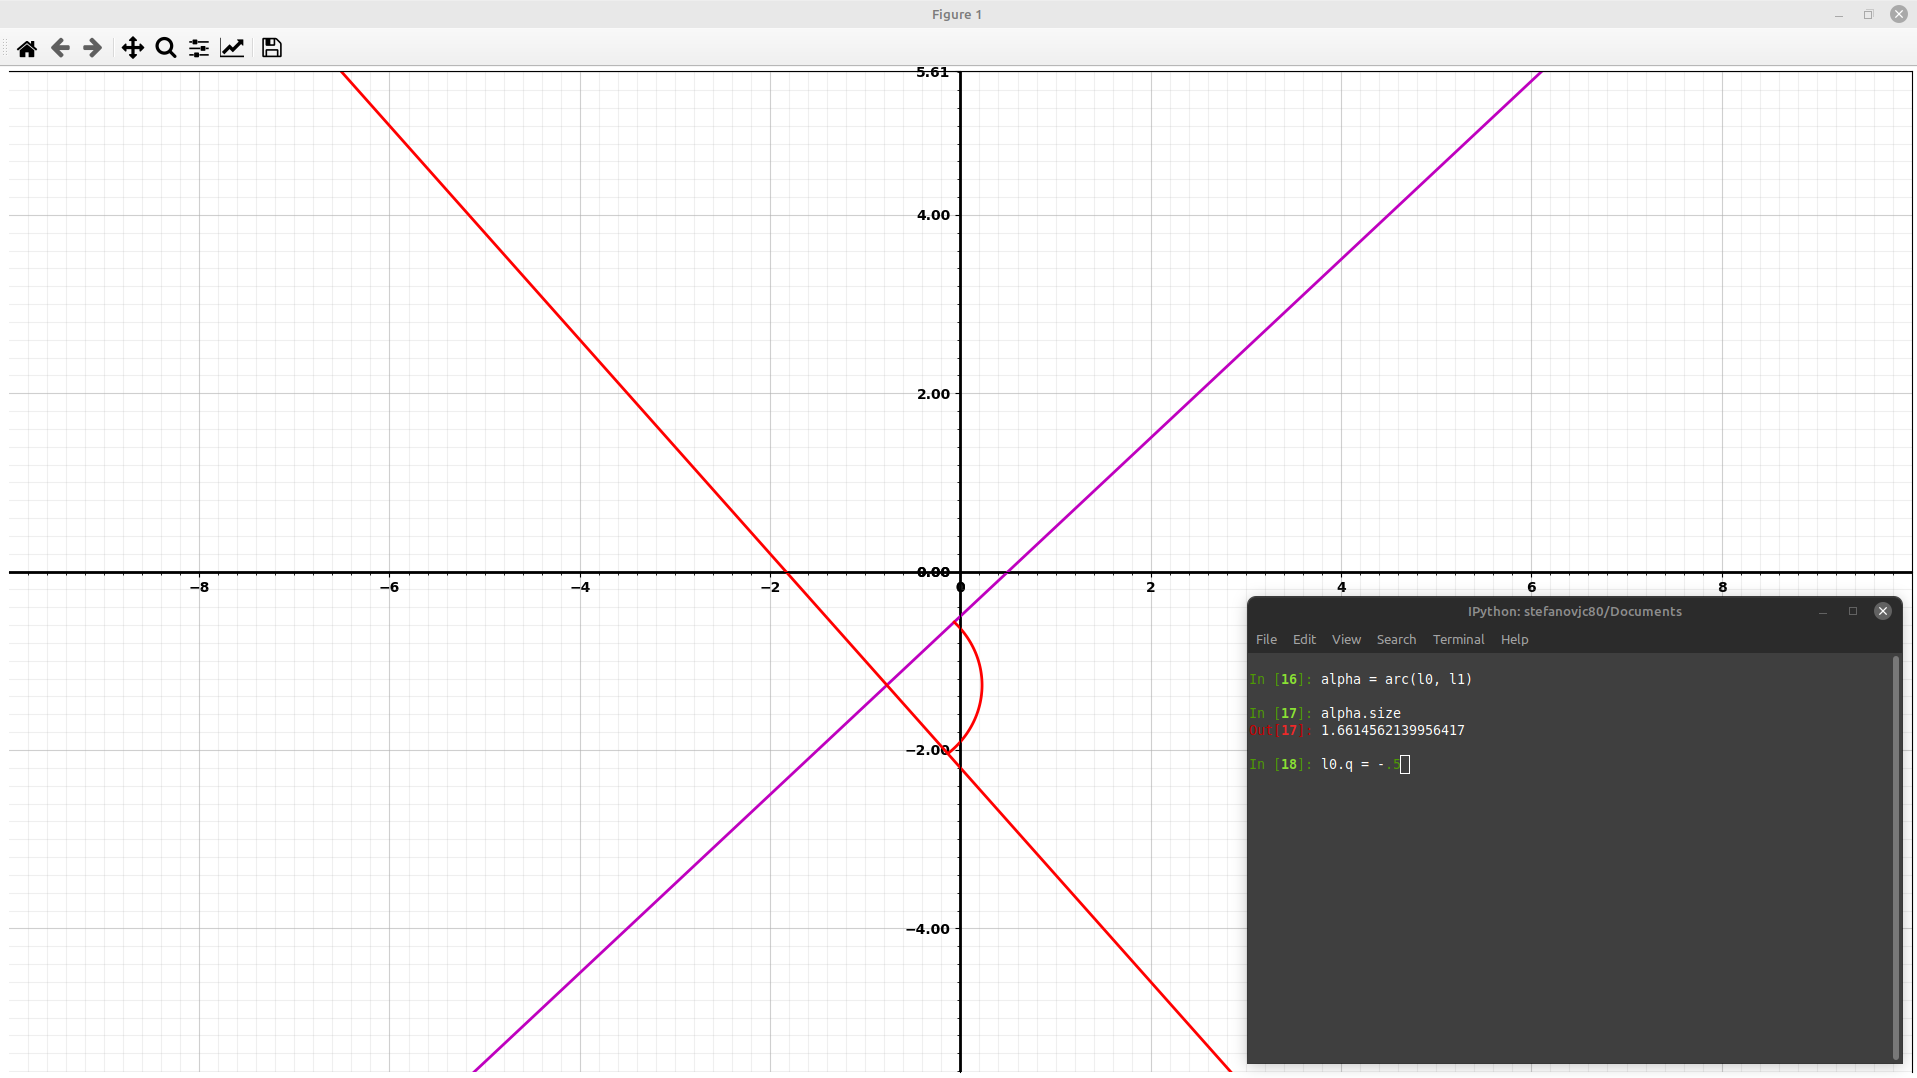
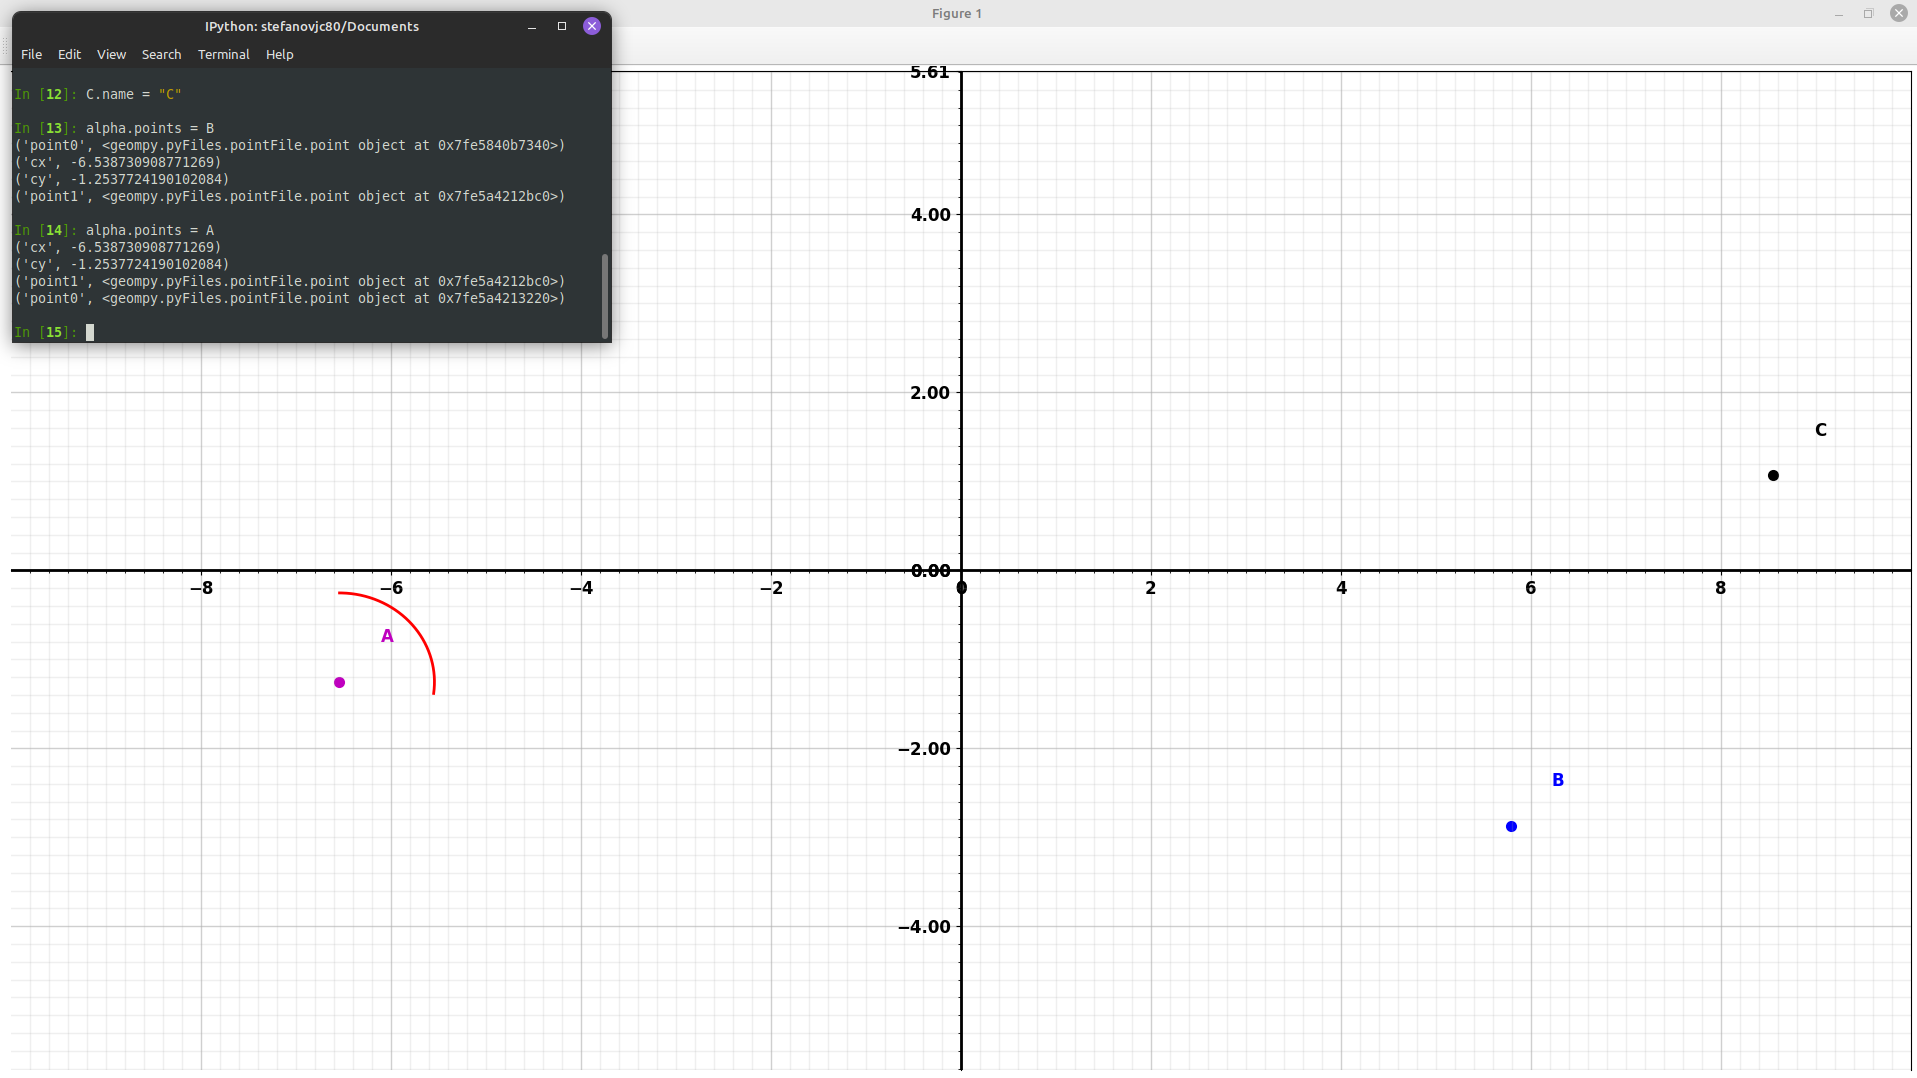
updates

diff --git a/README.md b/README.md
@@ -480,36 +480,41 @@ all poits with x values after 2 are removed
 
 
 
-# Arcs drawing
+# Angles
 
-The arc class takes two lines as argument
+The angle class
 
+`alpha = angle()`
 
+draws a generic angle, centered anywhere and with an amplitude spanning from 0 to `2pi`.
 
-`l0 = line()`
+Let move this angle and center it into the A point
 
-`l1 = line()`
+`A = point(2, 3)`
 
-`l0.m = 1`
+`A.name = "A"`
 
-`l0.m = -1.2`
+`alpha.centre = A`
 
-`l0.q = -.5`
+`alpha.name = r"$\alpha$`
 
-`l1.q = -2.2`
+and set it's size according with the position of two other points
 
-`alpha = arc(l0, l1)`
+`B = point()`
 
-`alpha.size`
+`B.name = "B"`
+
+`C = point()`
+
+`C.name = "C"`
+
+`alpha.points = B`
+
+`alpha.points = C`
 
 ![Alt Text](pictures/angle0.png)
 
-by typing
 
-`alpha.draw()`
-
-
-![Alt Text](pictures/angle1.png)
 
 # Plot settings
 
